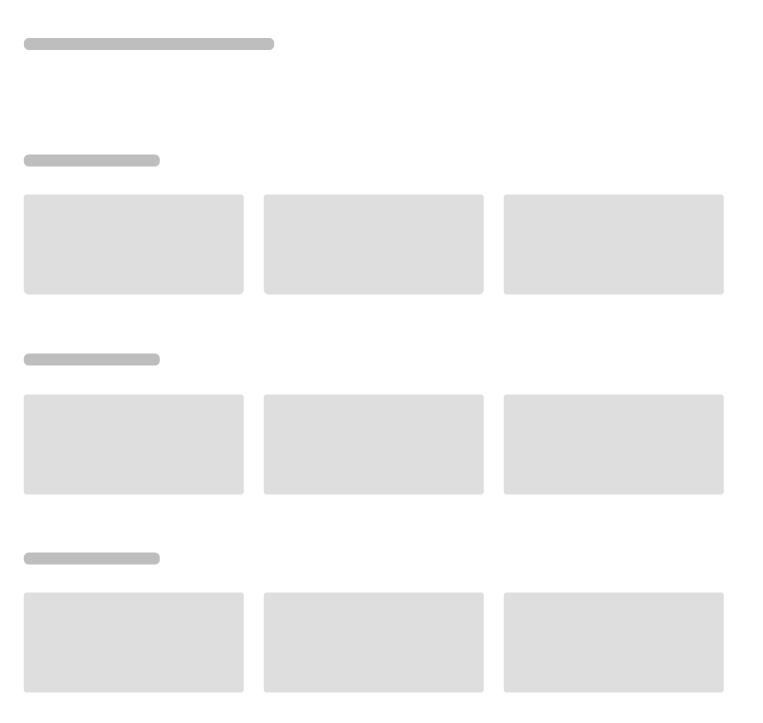
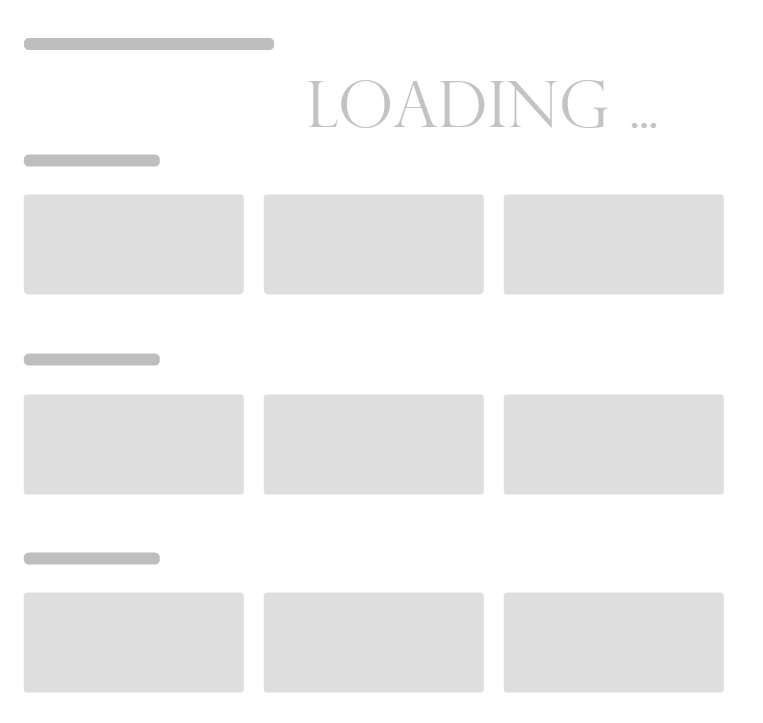
Feat: Proload圖片調整 / 登入優化 /   3/1

Changed region(s): [[0.3919, 0.0913, 0.7536, 0.1826], [0.7837, 0.1521, 0.8139, 0.1826]]

diff --git a/app/application/js/main.js b/app/application/js/main.js
@@ -6,15 +6,11 @@ let isCheck = false
 let nowUserId
 let nowUserName
 let nowUserEmail
-window.addEventListener("load", async () => {
-    await new Promise((resolve) => setTimeout(resolve, 100))
-    //preloadBackGround[0].classList.add("none")
-})
+
 window.addEventListener("DOMContentLoaded", async () => {
     try {
         await checkMainPageAuth()
         if (isCheck) {
-            preloadBackGround[0].classList.add("none")
             /* Right-Section Cards */
             await rightSectionBuild.getUserWindow()
             await rightSectionBuild.reloadWindows()
@@ -79,6 +75,7 @@ window.addEventListener("DOMContentLoaded", async () => {
             leftSectionBuild.addMembersButton()
             leftSectionBuild.backManageOrganizationMemberPermissions()
             leftSectionBuild.manageOrganizationMemberPermissionsCheckBox()
+            middleSectionBuild.openChatRoom()
             await leftSectionBuild.hasNotification()
             await leftSectionBuild.leaveOrganizationButton()
             middleSectionBuild.createFirstCollectionBoxButtonAddEvent()
@@ -89,7 +86,6 @@ window.addEventListener("DOMContentLoaded", async () => {
             middleSectionBuild.closeExportCollectionButtonAddEvent()
             middleSectionBuild.exportCollectionButtonAddEvent()
             middleSectionBuild.invalidAuthRolePopoverBox()
-            middleSectionBuild.openChatRoom()
             middleSectionBuild.chatRoomInput()
             middleSectionBuild.sendChatMessage()
             middleSectionBuild.generateChatMessage()
@@ -101,6 +97,7 @@ window.addEventListener("DOMContentLoaded", async () => {
         }
         mainPageBuild.rightSectionFold()
         mainPageBuild.leftSectionFold()
+        preloadBackGround[0].classList.add("none")
     } catch (error) {
         console.log(error)
     }

diff --git a/app/application/js/login.js b/app/application/js/login.js
@@ -63,11 +63,17 @@ loginSwitchButton.addEventListener("click", () => {
 
 registerButton.addEventListener("click", async () => {
     try {
+        const loginSwitchButton = document.getElementById("loginSwitchButton")
+        const loginEmailInput = document.getElementById("loginEmailInput")
+        const loginPasswordInput = document.getElementById("loginPasswordInput")
         const response = await authApi.register(registerEmailInput.value, registerPasswordInput.value, registerUsernameInput.value)
         const result = await response.data
         let num
         if (result.message === "ok") {
-            location.href = "/auth"
+            loginSwitchButton.click()
+            loginEmailInput.value = registerEmailInput.value
+            loginPasswordInput.value = registerPasswordInput.value
+            //location.href = "/auth"
         } else {
             registerInvalidFormatMessageClean()
             for (let i of result.errorMessages) {

diff --git a/app/application/views/login.html b/app/application/views/login.html
@@ -139,7 +139,7 @@
                 <button class="isLogin-alert-popover-box-close-svg-container">
                     <div class="isLogin-alert-popover-box-close-svg"></div>
                 </button>
-                <h4 class="isLogin-alert-popover-box--text">若要切換帳號，請登出上一個帳號。</h4>
+                <h4 class="isLogin-alert-popover-box--text">To switch accounts, please log out of the previous account.</h4>
                 <div>
                     <button class="isLogin-alert-popover-box-close-button">
                         <span>Done</span>

diff --git a/app/application/js/generatePage.js b/app/application/js/generatePage.js
@@ -3057,13 +3057,11 @@ class MiddleSectionBuild {
             if (!this.chatRoomClicked) {
                 middleSectionContainer[0].classList.add("none")
                 this.chatRoomClicked = true
-                const socket = window.socket
                 this.initChatRoomMessage()
                 this.getChatRoomData()
             } else {
                 middleSectionContainer[0].classList.remove("none")
                 this.chatRoomClicked = false
-                const socket = window.socket
             }
         })
     }

diff --git a/app/application/views/main.html b/app/application/views/main.html
@@ -18,7 +18,9 @@
         <link rel="stylesheet" href="/css/common.css" />
     </head>
     <body class="Tobicord">
-        <div class="preload-back-ground"></div>
+        <div class="preload-back-ground">
+            <div class="lds-dual-ring"></div>
+        </div>
         <div class="mask none"></div>
         <div id="root">
             <div class="sectionBox" id="mainContainer">
